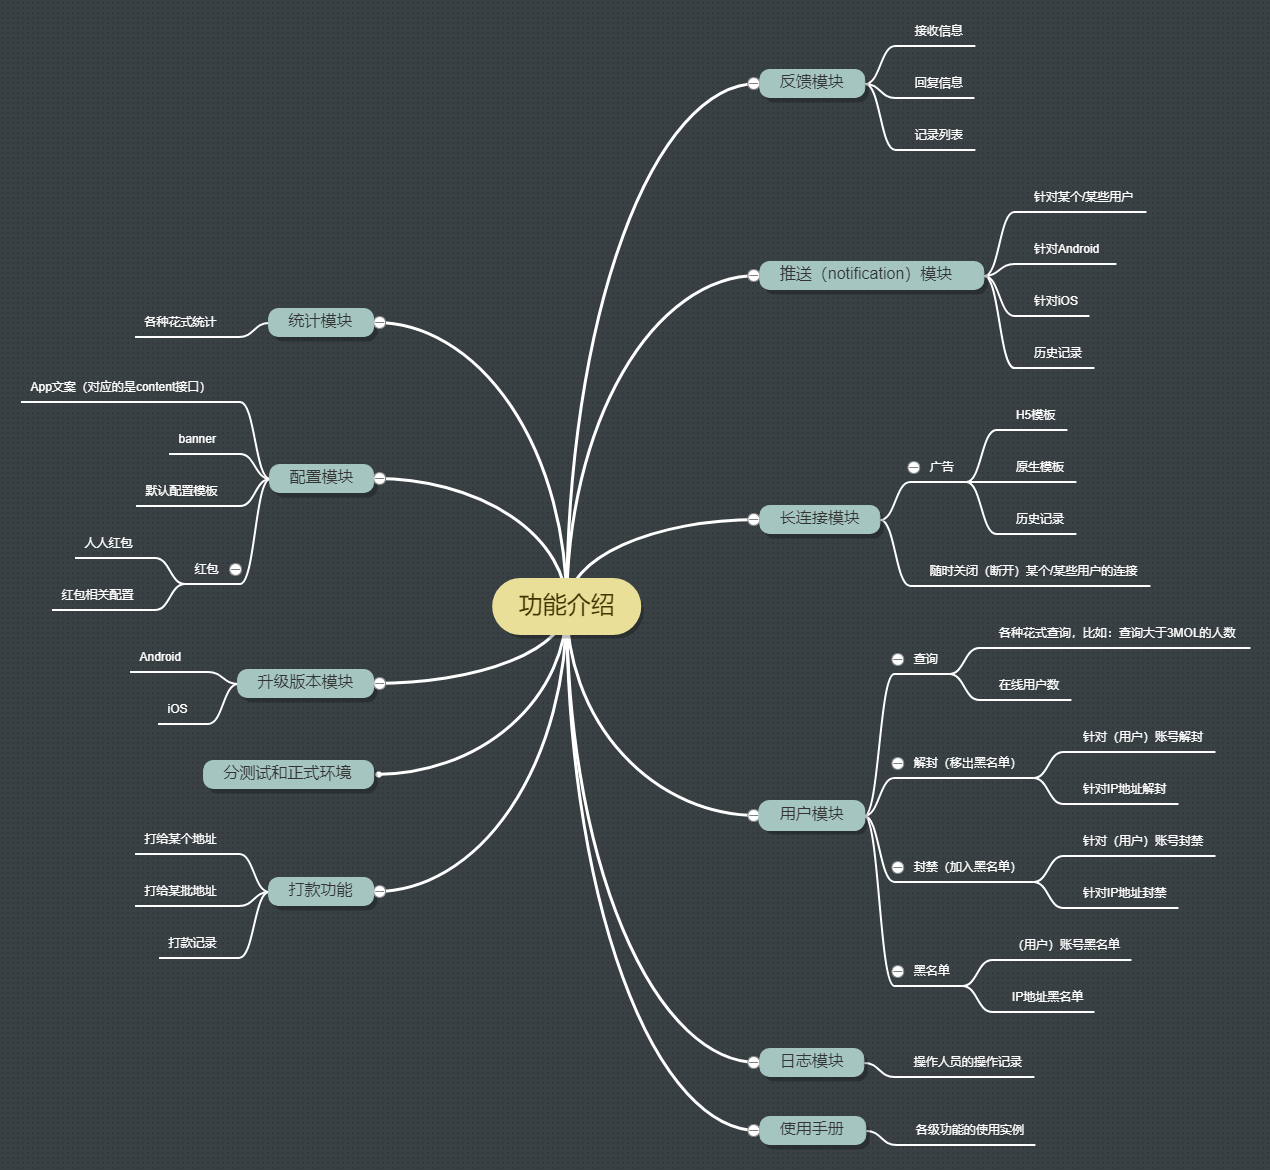
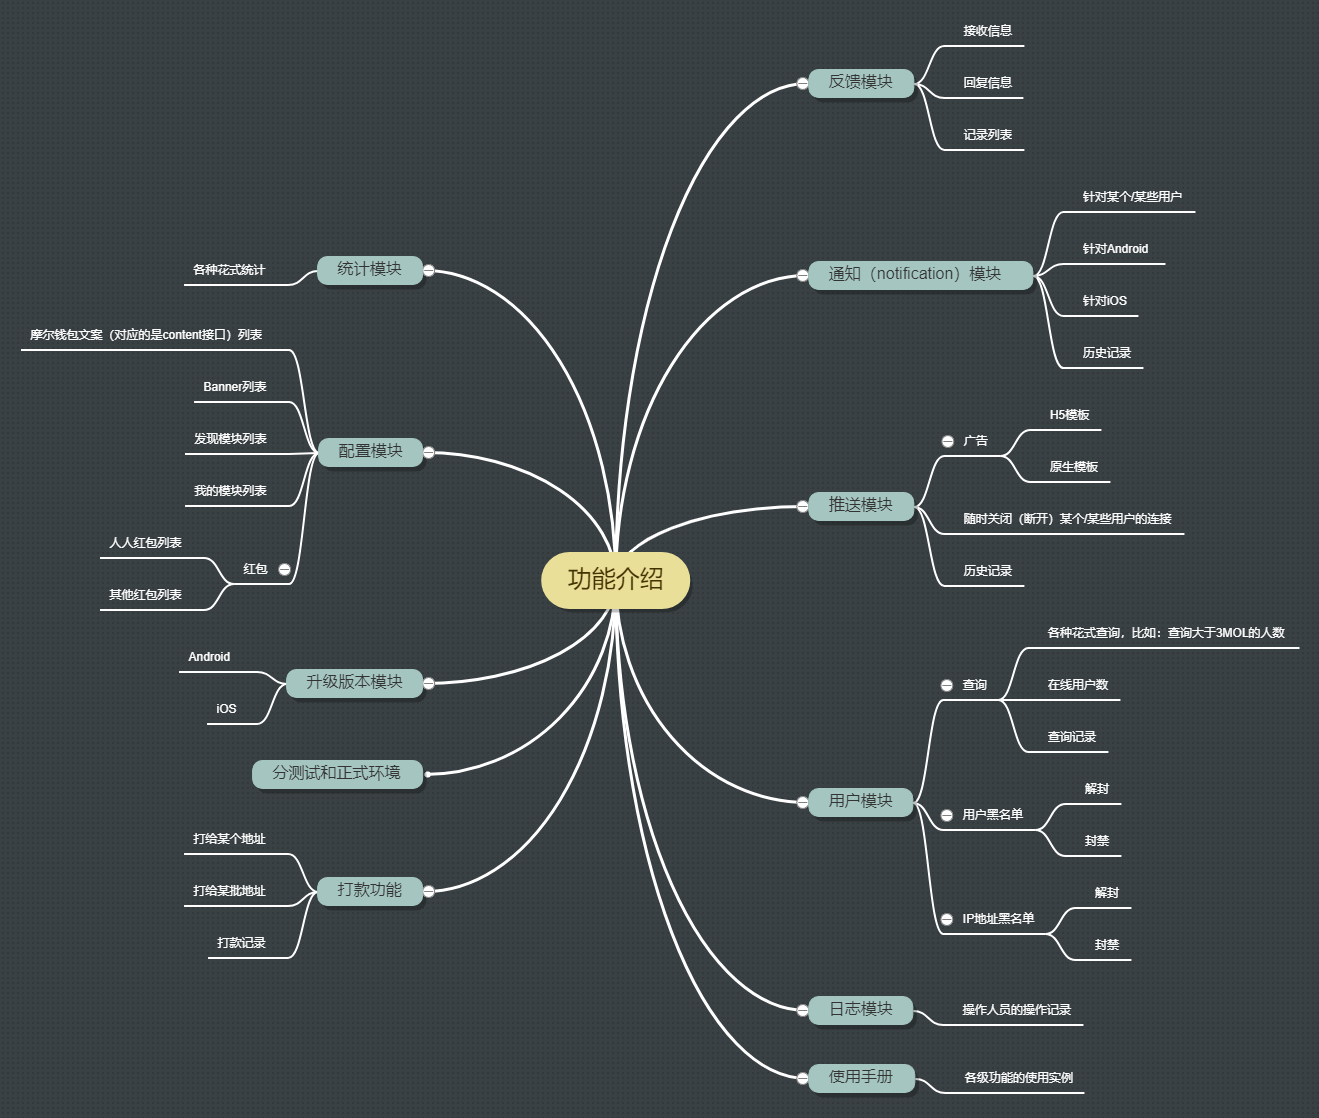
···

diff --git a/中后台/中后台管理系统设计.md b/中后台/中后台管理系统设计.md
@@ -34,6 +34,8 @@
 
 暂时只罗列出这么多功能，后续有想到再加。
 
+**暂时我们只运营了摩尔钱包，所以以下功能如无特别说明，均针对的是摩尔钱包功能。**
+
 ## 模板
 
 考虑到熊老师专心研究Vue，因此综合考虑后，选择vue-element-admin这个模板
@@ -52,11 +54,11 @@
 
 | 一级分类   | 子功能                                                       |
 | ---------- | ------------------------------------------------------------ |
-| 1.用户     | 1.查询<br />2.用户黑名单<br />3.IP地址黑名单<br />4.历史记录 |
+| 1.用户     | 1.查询<br />2.用户黑名单<br />3.IP地址黑名单                 |
 | 2.配置     | 1.摩尔钱包文案<br />2.Banner列表 <br />3.红包列表<br />4.发现模块<br />5.我的模块 |
-| 3.通知     | 1.推送<br />2.历史记录                                       |
-| 4.推送     | 1.广告<br />2.关闭连接<br />3.历史记录                       |
-| 5.版本维护 | 1.Android<br />2.iOS                                         |
+| 3.通知     | 1.通知<br />2.历史记录                                       |
+| 4.推送     | 1.广告<br />2.连接管理<br />3.历史记录                       |
+| 5.版本升级 | 1.Android<br />2.iOS                                         |
 | 6. 打款    | 无                                                           |
 | 7.日志     | 无                                                           |
 | 8.使用手册 | 无                                                           |
@@ -70,19 +72,99 @@
 
 ## 用户
 
-用户模块的主要功能其实就是增删改查和黑名单等。
+用户模块的主要功能其实就是增删改查和黑名单等，界面没要求，根据功能和经验合理呈现即可，功能如下：
 
-- 要求
+| 功能描述     |                                                              |
+| ------------ | ------------------------------------------------------------ |
+| 查询         | 各种查询：<br />1.根据手机号码查询出用户的信息列表<br />2.根据用户MOL积分币的累积量查询用户的信息列表<br />3.根据用户MOL积分币的可提取余额查询用户的信息列表<br />4.其他<br />**这部分由何流远负责，具体还需要哪些查询功能再想想，觉得有意义的就加上去** |
+| 用户黑名单   | 要求在界面上列出用户黑名单列表，每一条列表可以单独控制封禁和解封功能，同时要求有条件查询的选择，比如根据手机号码查询筛选列表 |
+| IP地址黑名单 | 要求在界面上列出IP地址黑名单列表，一点这个IP地址就可以呈现出该IP地址下的用户列表 |
 
+## 配置
 
+该功能是对界面的一系列控制，**这部分交由顺义来负责**，由于涉及到界面控制，因此严格要求对测试环境和正式环境，在界面上也要有相关提示，比如在填写完配置信息，点提交的时候，要求弹框警示运营人员。功能如下表所示：
 
+| 功能         | 描述                                                   |
+| ------------ | ------------------------------------------------------ |
+| 摩尔钱包文案 | 针对手机App的各种文案和链接，这部分对应的是content接口 |
+| Banner图配置 | Banner图是指发现模块的Banner图配置                     |
+| 红包列表     | 针对的是发现模块中的红包模块的红包列表配置             |
+| 发现模块     | “发现”模块的功能（item）列表                           |
+| 我的模块     | “我的”模块功能（item）列表                             |
 
+## 通知
 
+这个通知是指借助第三方平台的通知，是指手机APP的进程被杀掉后，还能收到的通知，暂时iOS对接的是极光推送，Android对接的是阿里云推送。功能如下：
 
+| 功能     | 描述                                                         |
+| -------- | ------------------------------------------------------------ |
+| 通知     | 填写好参数后就点击发送即可                                   |
+| 历史记录 | 历史列表，要求在点击某个历史记录的时候，就跳转到通知页面，然后将该历史记录的参数都填好 |
 
+对界面没有要求，只是填空，可以参考阿里云的，如下图所示：
 
+![通知](https://i.imgur.com/TFm5oCj.png) 
 
+我们把通知的JSON格式定义如下
 
+```
+{
+    "data": {
+        "title": "摩尔",
+        "content": "摩尔",
+        "when": "",
+        "smallIcon": "",
+        "largeIcon": "",
+        "priority": "",
+        "lights": "",
+        "vibrate": "",
+        "sound": "",
+        "channel": ""
+    }
+}
+
+```
+
+因此界面上只需要出10个填空的，把这10个字段都呈现出来即可。
+
+## 推送
+
+这个推送与上面的通知的本质区别是：通知是在App根本没有启动的时候，依托系统级的长连接得到后台发送过来的信息，而这个推送定义成App已经启动，利用本App的长连接得到后台的推过来的信息。因此可以做更多的拓展。
+
+| 功能     | 描述                                                         |
+| -------- | ------------------------------------------------------------ |
+| 广告     | 这部分暂时只考虑定义一个Web模板广告（本来是有计划一个原生的模板弹窗和一个Web模板弹窗来显示广告的，但是原生模板弹窗暂时没想好，因此不考虑了），填写一个某网页的url（这个可能是熊老师写个某个活动Web页面），然后指定发给某个用户，或者发给全部用户，用户拿到这个url后会拼接好token启动该url对应的web，因此这里还可以做一些针对用户的扩展，比如做个调查问卷，填写过问卷的给予MOL奖励，此时token就起作用了。界面只需要几个输入框即可。 |
+| 历史记录 | 历史列表，要求在点击某个历史记录的时候，就跳转到广告页面，然后将该历史记录的参数都填好 |
+| 连接管理 | 针对每一个长连接有一个开关，后台可控制允许某个/某些用户连接还是断开。 |
+
+## 版本升级（暂时不做，等重构好升级接口再实现）
+
+现在的这种手动上传到某个阿里云目录的做法是比较原始的，应该有一个统一的管理版本的地方，发布版本时也应该是简单的在后台填写日志信息，然后发布，而不是手动修改数据库。
+
+| 功能    | 描述                                       |
+| ------- | ------------------------------------------ |
+| Android | 界面上只要求将新版的JSON数据模拟得出来即可 |
+| iOS     | 界面上只要求将新版的JSON数据模拟得出来即可 |
+
+界面上可以参考Bugly
+
+![1533799319152](C:\Users\mol\AppData\Local\Temp\1533799319152.png)
+
+## 打款（暂时不考虑）
+
+这个功能可以暂时不考虑
+
+## 日志
+
+对该后台的所有操作都应该有记录，比如什么时候，那个人员登录过后台管理系统，做过哪些操作，根据时间排序列出来，方便日后审查和追责。
+
+## 使用手册
+
+这部分简单介绍即可，可以把这边文档当做简版使用手册。
+
+## 反馈（暂时不考虑）
+
+这部分是重点，希望后台能做成阿里云那么强大的服务后台。到时候前端会有一个反馈入口，以对话形式展示在前端App的某个页面，用户输入疑问后，会自动回复一些提示性语言，我们的客服人员上班后会查看，看到留言列表可以直接点击某一条留言，会一个输入框，输入完文字后点击回复按钮即可完成留言，用户下次打开反馈界面后就可以看到客服回复的内容。
 
 ---
 
